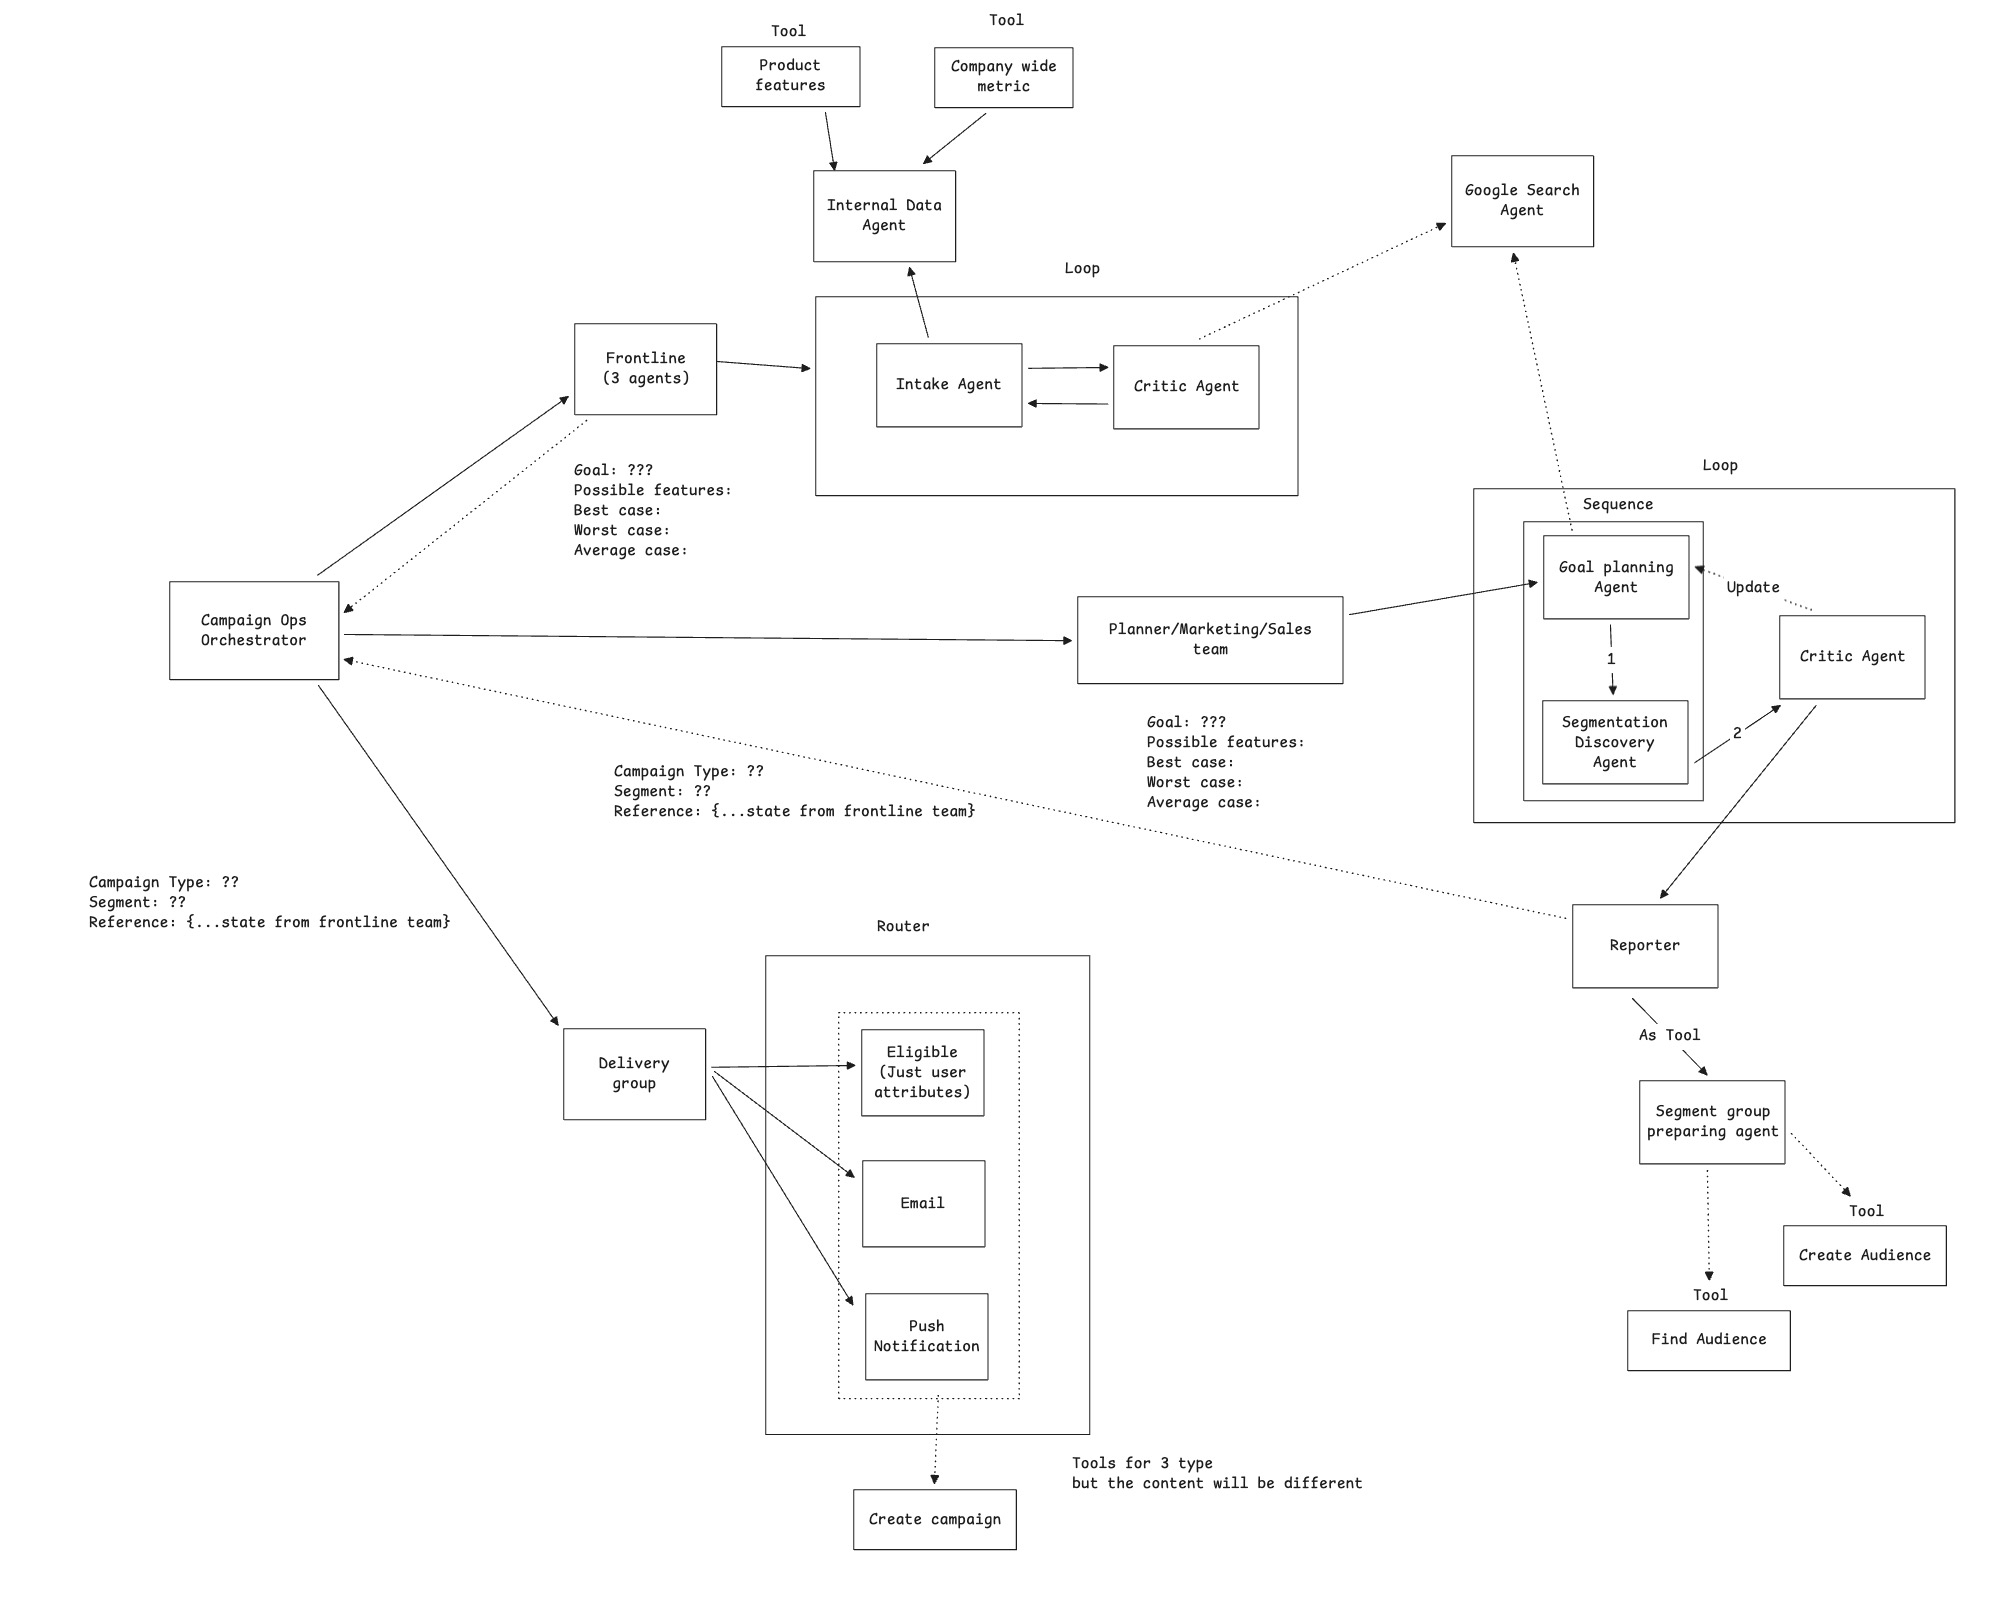
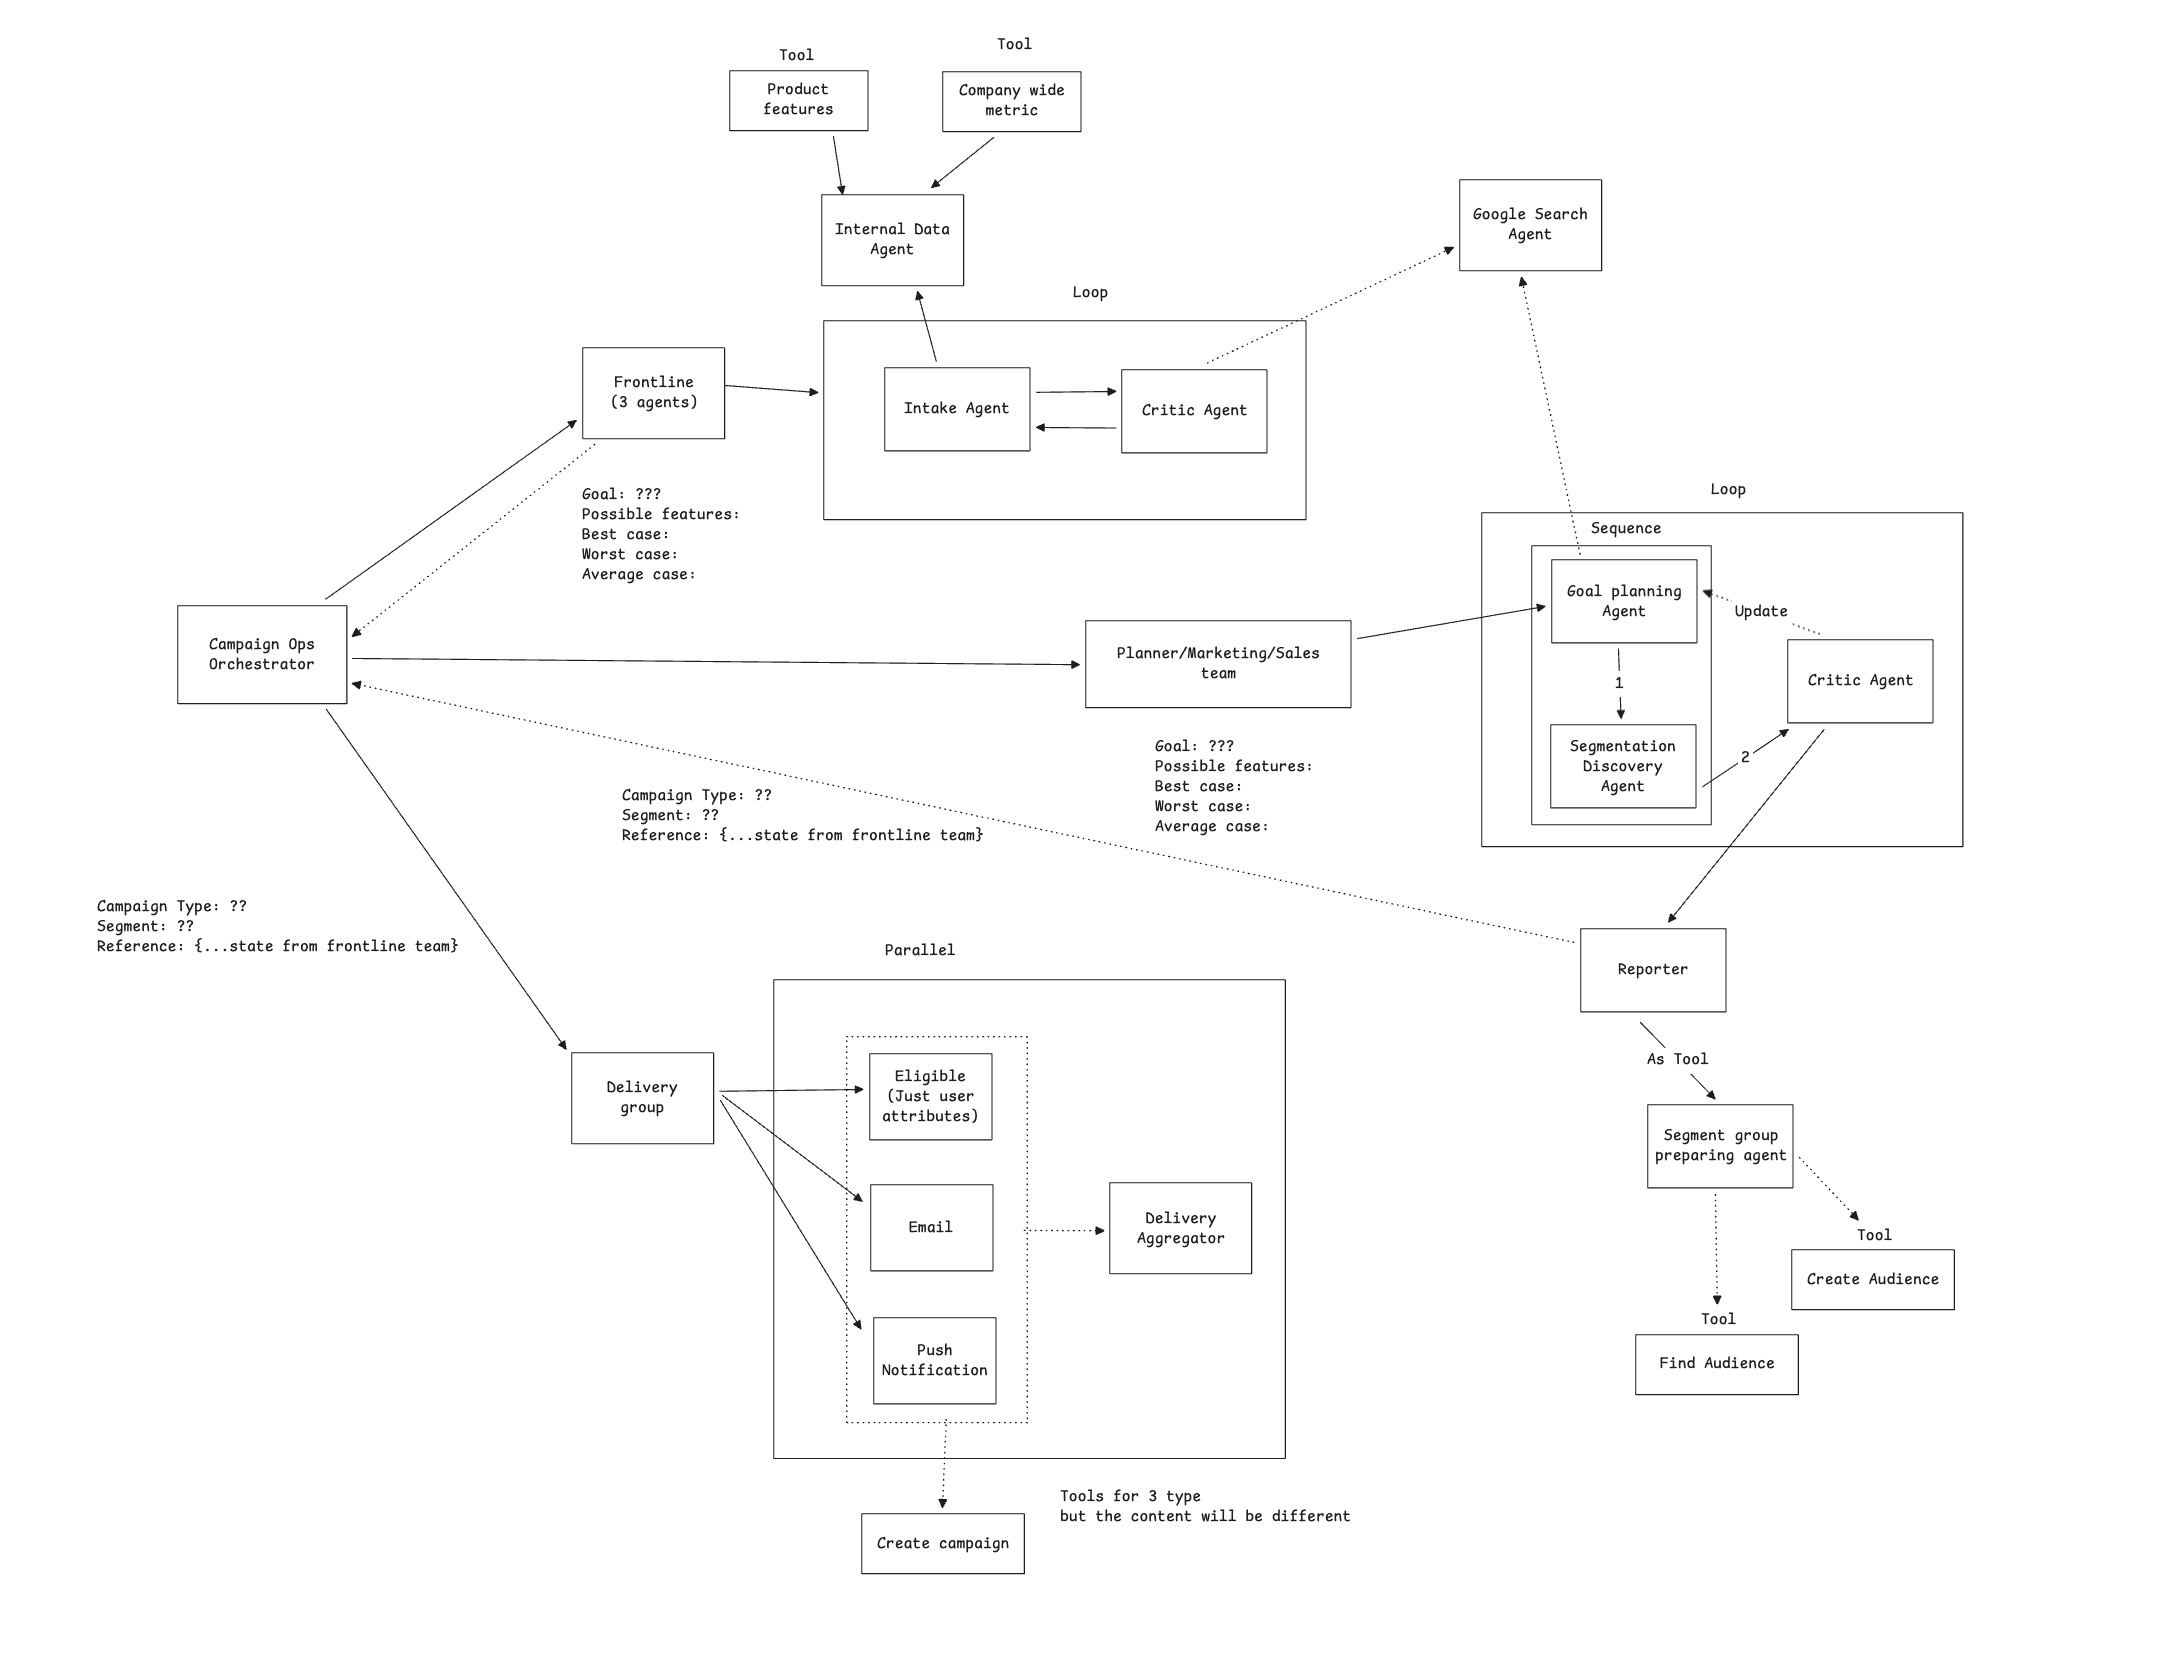
docs: Add a detailed project description, update the README with an expanded architecture overview, and refresh the AI architecture diagram.docs: Add a detailed project description, update the README with an expanded architecture overview, and refresh the AI architecture diagram.

diff --git a/PROJECT_DESCRIPTION.md b/PROJECT_DESCRIPTION.md
@@ -1,0 +1,31 @@
+# Campaign Ops Agent
+
+## Overview
+The **Campaign Ops Agent** is a production-grade, multi-agent orchestration system built with Google's Agent Development Kit (ADK). It turns campaign planning into a disciplined pipeline—**Frontline intake**, **Planner strategy**, **Delivery execution**—so marketers get a complete plan without juggling spreadsheets or copy decks.
+
+The Campaign Ops Orchestrator sequences every stage, announces each transition to the user, and instructs agents to fill in missing metrics using mock KPI baselines for a 1,000-user app. The flow never stalls midstream; only the final output may ask for confirmation.
+
+## Frontline Group
+Frontline Group runs Intake and Critic agents in a loop, then a Frontline Evidence agent.
+*   **Intake Agent**: Interprets the goal, calls the internal data tool for KPIs + feature inventory, and outputs goal hypotheses plus best/worst/average scenarios.
+*   **Critic Agent**: Enforces realism.
+*   **Frontline Evidence Agent**: Compacts the approved package into a structured handoff describing campaign type, objectives, constraints, and supporting metrics.
+
+## Planner Group
+Planner Group is the creative brain.
+*   **Goal Planning**: Produces a campaign charter with name, theme, hero promise, action plan, measurement targets, collaboration owners, and schedule intent. Each action includes consumer-facing copy (e.g., "Spend 10K THB this month, unlock 5% cashback on 10 rides next month"), quantified KPI targets, reward logic, and contingency notes.
+*   **Segmentation Discovery**: Converts that charter into executable audiences with eligibility attributes, sizes, reward mechanics, offer copy, CTA hints, frequency and spend goals.
+*   **Planner Critic**: Loops until plans are feasible.
+*   **Reporter**: Emits a strict JSON contract covering campaign messaging, KPI targets with baselines, schedule plan, delivery plan for eligibility/email/push, risks, and confidence.
+
+All planner tools, including a mock `segment_group_preparing_tool`, live inside this repo.
+
+## Delivery Group
+Delivery Group behaves like a true channel pod.
+*   **ParallelAgent**: Executes Eligibility, Email, and Push specialists simultaneously.
+*   **Eligibility Specialist**: Documents rules, uses local tools to set eligibility, find + create audiences, and records a creation event.
+*   **Email/Push Specialists**: Craft final creative (subject/body/CTA or title/body/CTA), invoke channel payload tools, and register their own creation events.
+*   **Delivery Aggregator**: Gathers planner_result plus specialist outputs, reiterates KPIs, messaging, and schedule, then returns a final packet with all creation events.
+
+## Conclusion
+The result is a modular Campaign Ops engine that turns vague growth goals into specific offers like "Free Point Dash: Complete 20 wallet transactions in 30 days, earn 400 bonus points" without manual wrangling. It shows how ADK-based multi-agent systems can mirror real marketing orgs, enforce data-driven rigor, and produce persuasive consumer-ready content.

diff --git a/README.md b/README.md
@@ -2,8 +2,13 @@
 
 ## Description
 
-The Campaign Ops Agent is a Python system built with Google's Agent Development Kit that automates how marketing teams turn campaign briefs into executable plans. An orchestrator coordinates segmentation, planning, risk analysis, and export groups while sharing per-campaign sessions and drawing on a memory bank of past insights. The Intake & Segmentation Agent interprets objectives, KPIs, and constraints, then enriches audiences through MCP-connected data stores. Planning and Risk agents run concurrently to select channels, schedule sends, and loop when conflicts appear. Finally, the Export Agent assembles delivery-ready specifications, logging every step for observability, evaluation, and scalable deployment for marketing stakeholders.
+The Campaign Ops Agent is a production-style, multi-agent orchestration pipeline built with Google's Agent Development Kit (ADK). It mirrors how real marketing teams operate (Frontline intake -> Planner/Marketing strategy -> Delivery execution) but runs each step with specialized AI agents. The Campaign Ops Orchestrator governs flow control, announces each stage to the user, ensures agents recommend missing metrics without halting for input, and escalates results downstream.
 
+- **Frontline Group**: Looping Intake and Critic agents interpret the user goal, call the internal data tool (now packed with mock KPIs for a 1,000-user scale), and output an approved frontline brief that includes goal hypotheses plus best/average/worst scenarios. A Frontline Evidence agent compacts this into a structured JSON contract.
+- **Planner Group**: Goal Planning, Segmentation Discovery, and Planner Critic agents iterate (bounded loop) until the campaign charter is ready. Instructions demand persuasive consumer content (campaign name/theme/hero promise, offers like "Spend 10K THB this month, unlock 5% cashback on 10 rides next month"), quantified KPI targets, segment definitions with eligibility + offer copy, and a delivery-ready JSON contract assembled by the Reporter.
+- **Delivery Group**: A ParallelAgent runs Eligibility, Email, and Push specialists simultaneously. Each agent calls locally defined tools to configure audiences or craft content, infers missing creative from planner outputs, and registers its work via a mock `campaign_creation_tool`. A Delivery Aggregator then merges `planner_result` with channel outputs, surfacing KPIs, schedule, and creation events for final reporting.
+
+This architecture demonstrates how ADK can power a modular marketing ops stack with deterministic handoffs, structured tool usage, and production-friendly prompts. The repo includes local mock tools so the system is self-contained for demos, plus deployment scripts for ADK agent engines.
 
 ## Command
 
@@ -36,4 +41,3 @@ uv run manual_operations/test.py
 ```bash
 uv run manual_operations/clean_up.py
 ```
-
